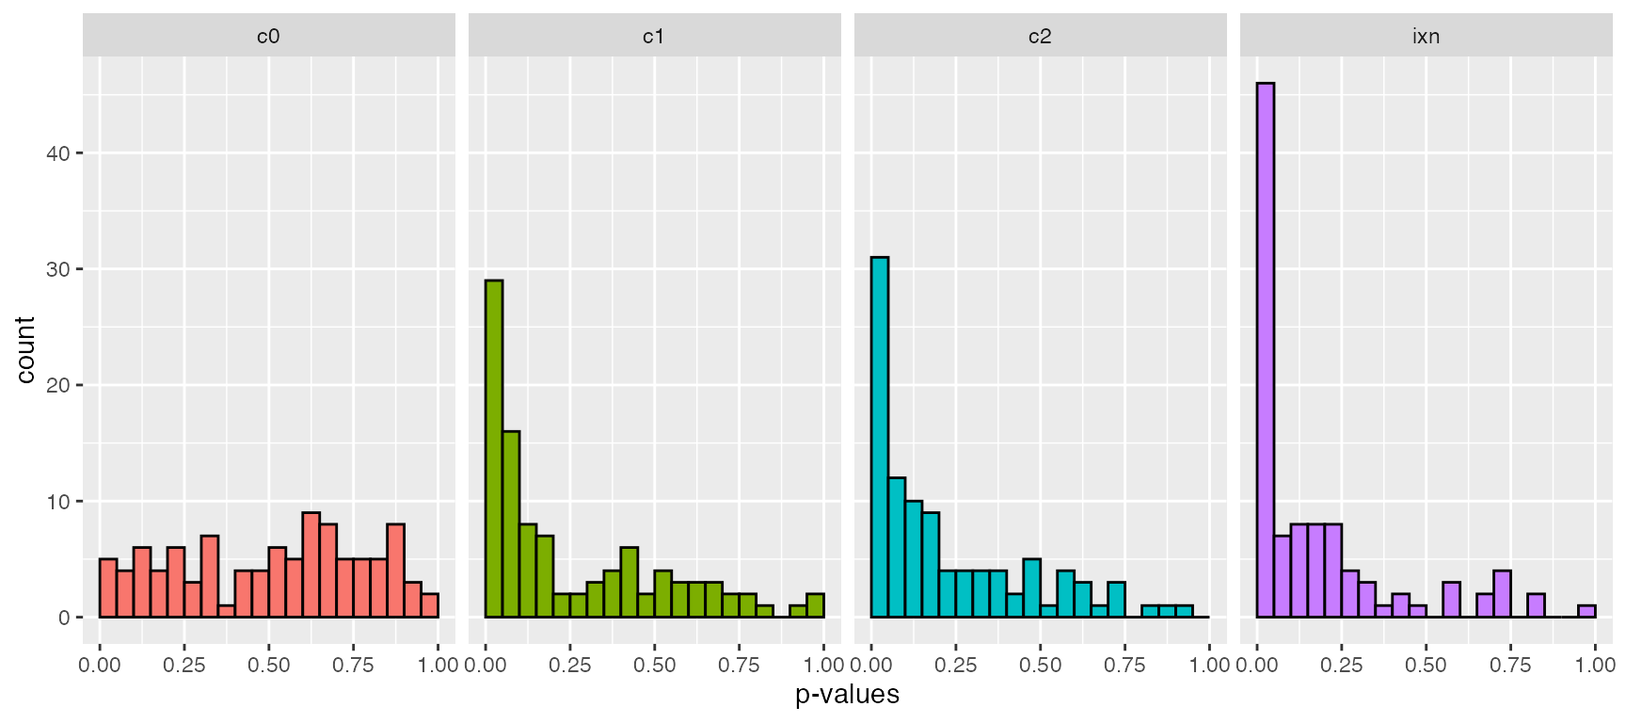
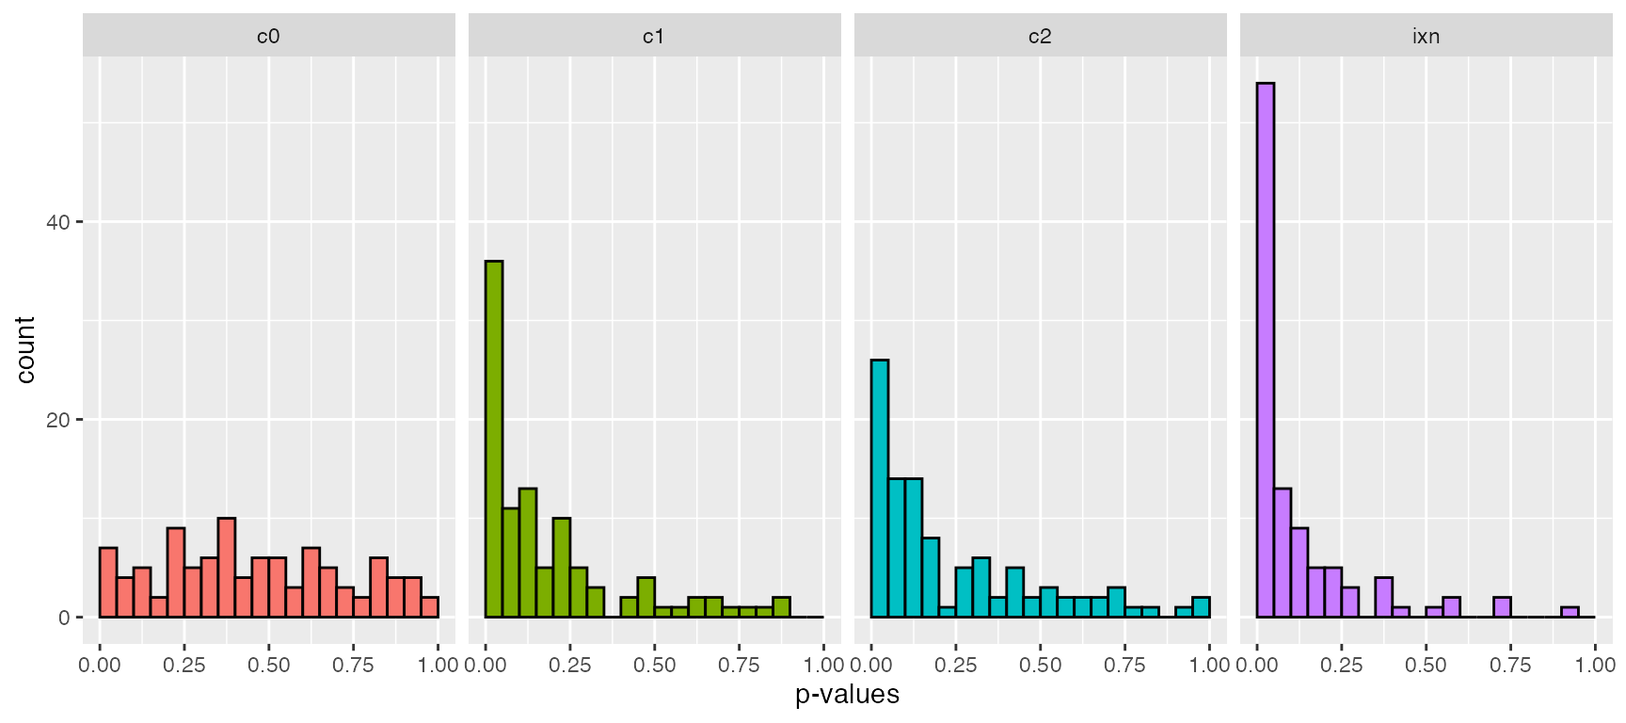
vignette clarifications

diff --git a/docs/articles/power.html b/docs/articles/power.html
@@ -144,15 +144,15 @@
                         data <span class="op">=</span> <span class="va">dat</span>,
                         return <span class="op">=</span> <span class="st">"afex_aov"</span><span class="op">)</span></pre></div>
 <pre><code>## Contrasts set to contr.sum for the following variables: C</code></pre>
-<p>{scienceverse} requires any numbers you use from an analysis to be returned as a named list, and we only care about the 3-way interaction for this study, so we’ll use {broom} and {dplyr} to get just the values we want.</p>
+<p>{scienceverse} requires any numbers you use from an analysis to be returned as a named list, and we only care about the 3-way interaction for this study, so we’ll use {dplyr} and {tidyr} to get just the values we want.</p>
 <div class="sourceCode" id="cb5"><pre class="downlit">
 <span class="co"># get stats for 3-way interaction</span>
 <span class="va">ixn</span> <span class="op">&lt;-</span> <span class="fu"><a href="https://rdrr.io/r/stats/anova.html">anova</a></span><span class="op">(</span><span class="va">omnibus</span><span class="op">)</span><span class="op">[</span><span class="st">"C:A:B"</span>, <span class="op">]</span>
 
 <span class="co"># calculate group means</span>
-<span class="va">means</span> <span class="op">&lt;-</span> <span class="fu"><a href="https://dplyr.tidyverse.org/reference/group_by.html">group_by</a></span><span class="op">(</span><span class="va">dat</span>, <span class="va">A</span>, <span class="va">B</span>, <span class="va">C</span><span class="op">)</span> <span class="op">%&gt;%</span>
-  <span class="fu"><a href="https://dplyr.tidyverse.org/reference/summarise.html">summarise</a></span><span class="op">(</span>m <span class="op">=</span> <span class="fu"><a href="https://rdrr.io/r/base/mean.html">mean</a></span><span class="op">(</span><span class="va">score</span><span class="op">)</span>, .groups <span class="op">=</span> <span class="st">"drop"</span><span class="op">)</span> <span class="op">%&gt;%</span>
-  <span class="fu"><a href="https://tidyr.tidyverse.org/reference/unite.html">unite</a></span><span class="op">(</span><span class="st">"grp"</span>, <span class="va">A</span>, <span class="va">B</span>, <span class="va">C</span><span class="op">)</span>
+<span class="va">means</span> <span class="op">&lt;-</span> <span class="fu">group_by</span><span class="op">(</span><span class="va">dat</span>, <span class="va">A</span>, <span class="va">B</span>, <span class="va">C</span><span class="op">)</span> <span class="op">%&gt;%</span>
+  <span class="fu">summarise</span><span class="op">(</span>m <span class="op">=</span> <span class="fu"><a href="https://rdrr.io/r/base/mean.html">mean</a></span><span class="op">(</span><span class="va">score</span><span class="op">)</span>, .groups <span class="op">=</span> <span class="st">"drop"</span><span class="op">)</span> <span class="op">%&gt;%</span>
+  <span class="fu">tidyr</span><span class="fu">::</span><span class="fu"><a href="https://tidyr.tidyverse.org/reference/unite.html">unite</a></span><span class="op">(</span><span class="st">"grp"</span>, <span class="va">A</span>, <span class="va">B</span>, <span class="va">C</span><span class="op">)</span>
 
 <span class="va">m</span> <span class="op">&lt;-</span> <span class="va">means</span><span class="op">$</span><span class="va">m</span>
 <span class="fu"><a href="https://rdrr.io/r/base/names.html">names</a></span><span class="op">(</span><span class="va">m</span><span class="op">)</span> <span class="op">&lt;-</span> <span class="va">means</span><span class="op">$</span><span class="va">grp</span>
@@ -163,28 +163,28 @@
   means <span class="op">=</span> <span class="va">m</span>
 <span class="op">)</span> <span class="op">%&gt;%</span> <span class="fu"><a href="https://rdrr.io/r/utils/str.html">str</a></span><span class="op">(</span><span class="op">)</span></pre></div>
 <pre><code>## List of 3
-##  $ p    : num 0.351
-##  $ F    : num 1.12
-##  $ means: Named num [1:24] 0.3397 0.5654 -0.0924 0.1731 0.6192 ...
+##  $ p    : num 0.175
+##  $ F    : num 1.53
+##  $ means: Named num [1:24] 0.0693 0.2482 0.2407 -0.0398 0.0253 ...
 ##   ..- attr(*, "names")= chr [1:24] "A1_B1_C0" "A1_B1_C1" "A1_B1_C2" "A1_B2_C0" ...</code></pre>
 <p>Now you might also want to do some analyses to check that the pattern of any significant 3-way interaction is consistent with your hypothesis.</p>
 <div class="sourceCode" id="cb7"><pre class="downlit">
 <span class="va">aov_control</span> <span class="op">&lt;-</span> <span class="fu">afex</span><span class="fu">::</span><span class="fu"><a href="https://rdrr.io/pkg/afex/man/aov_car.html">aov_ez</a></span><span class="op">(</span>id <span class="op">=</span> <span class="st">"sub_id"</span>,
                         dv <span class="op">=</span> <span class="st">"score"</span>,
                         within <span class="op">=</span> <span class="fu"><a href="https://rdrr.io/r/base/c.html">c</a></span><span class="op">(</span><span class="st">"A"</span>, <span class="st">"B"</span><span class="op">)</span>,
-                        data <span class="op">=</span> <span class="fu"><a href="https://dplyr.tidyverse.org/reference/filter.html">filter</a></span><span class="op">(</span><span class="va">dat</span>, <span class="va">C</span> <span class="op">==</span> <span class="st">"C0"</span><span class="op">)</span>,
+                        data <span class="op">=</span> <span class="fu"><a href="https://rdrr.io/r/stats/filter.html">filter</a></span><span class="op">(</span><span class="va">dat</span>, <span class="va">C</span> <span class="op">==</span> <span class="st">"C0"</span><span class="op">)</span>,
                         return <span class="op">=</span> <span class="st">"afex_aov"</span><span class="op">)</span>
 
 <span class="va">aov_c1</span> <span class="op">&lt;-</span> <span class="fu">afex</span><span class="fu">::</span><span class="fu"><a href="https://rdrr.io/pkg/afex/man/aov_car.html">aov_ez</a></span><span class="op">(</span>id <span class="op">=</span> <span class="st">"sub_id"</span>,
                         dv <span class="op">=</span> <span class="st">"score"</span>,
                         within <span class="op">=</span> <span class="fu"><a href="https://rdrr.io/r/base/c.html">c</a></span><span class="op">(</span><span class="st">"A"</span>, <span class="st">"B"</span><span class="op">)</span>,
-                        data <span class="op">=</span> <span class="fu"><a href="https://dplyr.tidyverse.org/reference/filter.html">filter</a></span><span class="op">(</span><span class="va">dat</span>, <span class="va">C</span> <span class="op">==</span> <span class="st">"C1"</span><span class="op">)</span>,
+                        data <span class="op">=</span> <span class="fu"><a href="https://rdrr.io/r/stats/filter.html">filter</a></span><span class="op">(</span><span class="va">dat</span>, <span class="va">C</span> <span class="op">==</span> <span class="st">"C1"</span><span class="op">)</span>,
                         return <span class="op">=</span> <span class="st">"afex_aov"</span><span class="op">)</span>
 
 <span class="va">aov_c2</span> <span class="op">&lt;-</span> <span class="fu">afex</span><span class="fu">::</span><span class="fu"><a href="https://rdrr.io/pkg/afex/man/aov_car.html">aov_ez</a></span><span class="op">(</span>id <span class="op">=</span> <span class="st">"sub_id"</span>,
                         dv <span class="op">=</span> <span class="st">"score"</span>,
                         within <span class="op">=</span> <span class="fu"><a href="https://rdrr.io/r/base/c.html">c</a></span><span class="op">(</span><span class="st">"A"</span>, <span class="st">"B"</span><span class="op">)</span>,
-                        data <span class="op">=</span> <span class="fu"><a href="https://dplyr.tidyverse.org/reference/filter.html">filter</a></span><span class="op">(</span><span class="va">dat</span>, <span class="va">C</span> <span class="op">==</span> <span class="st">"C2"</span><span class="op">)</span>,
+                        data <span class="op">=</span> <span class="fu"><a href="https://rdrr.io/r/stats/filter.html">filter</a></span><span class="op">(</span><span class="va">dat</span>, <span class="va">C</span> <span class="op">==</span> <span class="st">"C2"</span><span class="op">)</span>,
                         return <span class="op">=</span> <span class="st">"afex_aov"</span><span class="op">)</span>
 
 <span class="fu"><a href="https://rdrr.io/r/base/list.html">list</a></span><span class="op">(</span>
@@ -193,9 +193,9 @@
   cond2 <span class="op">=</span> <span class="fu"><a href="https://rdrr.io/r/stats/anova.html">anova</a></span><span class="op">(</span><span class="va">aov_c2</span><span class="op">)</span><span class="op">[</span><span class="st">"A:B"</span>, <span class="st">"Pr(&gt;F)"</span><span class="op">]</span>
 <span class="op">)</span> <span class="op">%&gt;%</span> <span class="fu"><a href="https://rdrr.io/r/utils/str.html">str</a></span><span class="op">(</span><span class="op">)</span></pre></div>
 <pre><code>## List of 3
-##  $ control: num 0.878
-##  $ cond1  : num 0.0836
-##  $ cond2  : num 0.977</code></pre>
+##  $ control: num 0.859
+##  $ cond1  : num 0.263
+##  $ cond2  : num 0.223</code></pre>
 </div>
 <div id="set-up-scienceverse-study" class="section level2">
 <h2 class="hasAnchor">
@@ -251,33 +251,33 @@
 <div class="sourceCode" id="cb10"><pre class="downlit">
 <span class="fu"><a href="../reference/study_analyse.html">study_analyse</a></span><span class="op">(</span><span class="va">s</span><span class="op">)</span> <span class="op">%&gt;%</span> <span class="fu"><a href="../reference/get_result.html">get_result</a></span><span class="op">(</span><span class="op">)</span></pre></div>
 <pre><code>## Contrasts set to contr.sum for the following variables: C</code></pre>
-<pre><code>## * p: 0.1393093
-## * F: 1.6474692
+<pre><code>## * p: 0.0799278
+## * F: 1.9424453
 ## * means: 
-##     * A1_B1_C0: 0.0649719
-##     * A1_B1_C1: 0.2215913
-##     * A1_B1_C2: 0.0500495
-##     * A1_B2_C0: -0.0063149
-##     * A1_B2_C1: 0.3299104
-##     * A1_B2_C2: -0.2422676
-##     * A2_B1_C0: -0.0694003
-##     * A2_B1_C1: 0.2746144
-##     * A2_B1_C2: -0.1725015
-##     * A2_B2_C0: -0.1733002
-##     * A2_B2_C1: 0.0783498
-##     * A2_B2_C2: -0.2186378
-##     * A3_B1_C0: -0.026929
-##     * A3_B1_C1: 0.5473249
-##     * A3_B1_C2: 0.1582065
-##     * A3_B2_C0: -0.2743202
-##     * A3_B2_C1: 0.0815687
-##     * A3_B2_C2: 0.4101281
-##     * A4_B1_C0: -0.1449238
-##     * A4_B1_C1: 0.4450946
-##     * A4_B1_C2: -0.1292933
-##     * A4_B2_C0: 0.0637482
-##     * A4_B2_C1: 0.31732
-##     * A4_B2_C2: 0.6933566</code></pre>
+##     * A1_B1_C0: -0.1513062
+##     * A1_B1_C1: 0.5302605
+##     * A1_B1_C2: 0.2147065
+##     * A1_B2_C0: -0.1150104
+##     * A1_B2_C1: 0.2394406
+##     * A1_B2_C2: -0.1316707
+##     * A2_B1_C0: -0.0752131
+##     * A2_B1_C1: 0.5149828
+##     * A2_B1_C2: -0.0294286
+##     * A2_B2_C0: -0.2582569
+##     * A2_B2_C1: 0.1935122
+##     * A2_B2_C2: 0.3162614
+##     * A3_B1_C0: 0.2860275
+##     * A3_B1_C1: 0.4743795
+##     * A3_B1_C2: -0.0102132
+##     * A3_B2_C0: -0.0348743
+##     * A3_B2_C1: 0.27751
+##     * A3_B2_C2: 0.4565901
+##     * A4_B1_C0: 0.0889195
+##     * A4_B1_C1: 0.7312793
+##     * A4_B1_C2: -0.001072
+##     * A4_B2_C0: -0.0123132
+##     * A4_B2_C1: 0.2371247
+##     * A4_B2_C2: 0.6997963</code></pre>
 <p>Add the extra analyses. They can go in the code of the main analysis and their results can be added to the returned list, or they can be added as separate analysis objects.</p>
 <div class="sourceCode" id="cb13"><pre class="downlit">
 <span class="va">s</span> <span class="op">&lt;-</span> <span class="va">s</span> <span class="op">%&gt;%</span>
@@ -340,18 +340,17 @@
 <pre><code>## Contrasts set to contr.sum for the following variables: C</code></pre>
 <div class="sourceCode" id="cb16"><pre class="downlit">
 <span class="fu"><a href="../reference/get_result.html">get_result</a></span><span class="op">(</span><span class="va">s</span>, analysis_id <span class="op">=</span> <span class="st">"C0"</span><span class="op">)</span></pre></div>
-<pre><code>## * p: 0.5718463
-## * F: 0.6465138</code></pre>
+<pre><code>## * p: 0.5811598
+## * F: 0.5923327</code></pre>
 <div class="sourceCode" id="cb18"><pre class="downlit">
 <span class="fu"><a href="../reference/get_result.html">get_result</a></span><span class="op">(</span><span class="va">s</span>, analysis_id <span class="op">=</span> <span class="st">"C1"</span><span class="op">)</span></pre></div>
-<pre><code>## * p: 0.4310396
-## * F: 0.9096883</code></pre>
+<pre><code>## * p: 0.8629406
+## * F: 0.2308999</code></pre>
 <div class="sourceCode" id="cb20"><pre class="downlit">
 <span class="fu"><a href="../reference/get_result.html">get_result</a></span><span class="op">(</span><span class="va">s</span>, analysis_id <span class="op">=</span> <span class="st">"C2"</span><span class="op">)</span></pre></div>
-<pre><code>## * p: 0.0108717
-## * F: 4.2554061</code></pre>
-<p>Add a hypothesis, specify criteria (here, just <code>p</code> &lt; 0.05), and add evaluation criteria. You can add criteria for both “corroboration” and “falsification”, but here we just have corroboration criteria.</p>
-<p>(Ignore the statistically dodgy criterion of p &gt; 0.05 for the control condition. In practice, you’d do an equivalence test to show that the control condition has an effect smaller than the SESOI.)</p>
+<pre><code>## * p: 0.0288904
+## * F: 3.5212271</code></pre>
+<p>Add a hypothesis, specify criteria, and add evaluation rules You can add rules for both “corroboration” and “falsification”, but here we just have corroboration rules.</p>
 <div class="sourceCode" id="cb22"><pre class="downlit">
 <span class="va">s</span> <span class="op">&lt;-</span> <span class="va">s</span> <span class="op">%&gt;%</span>
   <span class="fu"><a href="../reference/add_hypothesis.html">add_hypothesis</a></span><span class="op">(</span><span class="st">"IXN"</span>, <span class="st">"There will be a significant 3-way interaction among factors A, B and C"</span><span class="op">)</span> <span class="op">%&gt;%</span>
@@ -409,7 +408,7 @@
 <div id="run-power-simulation" class="section level2">
 <h2 class="hasAnchor">
 <a href="#run-power-simulation" class="anchor"></a>Run power simulation</h2>
-<p>Running <code><a href="../reference/study_power.html">study_power()</a></code> returns a study object that has <code>rep</code> values stored for the analysis criteria and evaluations. <code><a href="../reference/get_power.html">get_power()</a></code> returns the evaluation criteria for each hypothesis and, optionally, the criteria values.</p>
+<p>Running <code><a href="../reference/study_power.html">study_power()</a></code> returns a study object that has <code>rep</code> values stored for the analysis criteria and evaluations. <code><a href="../reference/get_power.html">get_power()</a></code> returns the evaluation for each hypothesis and, optionally, the results values for each analysis.</p>
 <div class="sourceCode" id="cb23"><pre class="downlit">
 <span class="va">s</span> <span class="op">&lt;-</span> <span class="fu"><a href="../reference/study_power.html">study_power</a></span><span class="op">(</span><span class="va">s</span>, rep <span class="op">=</span> <span class="fl">100</span><span class="op">)</span></pre></div>
 <pre><code>## Warning in study_power(s, rep = 100): Hypothesis IXN has no evaluation criteria
@@ -420,10 +419,13 @@
 <span class="fu"><a href="https://rdrr.io/r/utils/str.html">str</a></span><span class="op">(</span><span class="va">power</span><span class="op">$</span><span class="va">power</span><span class="op">)</span></pre></div>
 <pre><code>## List of 1
 ##  $ IXN:List of 3
-##   ..$ corroboration: num 0.46
+##   ..$ corroboration: num 0.54
 ##   ..$ falsification: num 0
-##   ..$ inconclusive : num 0.54</code></pre>
-<p>Plot the resulting values.</p>
+##   ..$ inconclusive : num 0.46</code></pre>
+</div>
+<div id="plot-the-resulting-values" class="section level2">
+<h2 class="hasAnchor">
+<a href="#plot-the-resulting-values" class="anchor"></a>Plot the resulting values</h2>
 <div class="sourceCode" id="cb28"><pre class="downlit">
 <span class="fu"><a href="https://rdrr.io/r/base/data.frame.html">data.frame</a></span><span class="op">(</span>
   ixn <span class="op">=</span> <span class="va">power</span><span class="op">$</span><span class="va">results</span><span class="op">$</span><span class="va">ANOVA</span><span class="op">$</span><span class="va">p</span>,
@@ -431,43 +433,43 @@
   c1 <span class="op">=</span> <span class="va">power</span><span class="op">$</span><span class="va">results</span><span class="op">$</span><span class="va">C1</span><span class="op">$</span><span class="va">p</span>,
   c2 <span class="op">=</span> <span class="va">power</span><span class="op">$</span><span class="va">results</span><span class="op">$</span><span class="va">C2</span><span class="op">$</span><span class="va">p</span>
 <span class="op">)</span> <span class="op">%&gt;%</span>
-  <span class="fu"><a href="https://tidyr.tidyverse.org/reference/gather.html">gather</a></span><span class="op">(</span><span class="st">"analysis"</span>, <span class="st">"p"</span>, <span class="va">ixn</span><span class="op">:</span><span class="va">c2</span><span class="op">)</span> <span class="op">%&gt;%</span>
-  <span class="fu"><a href="https://ggplot2.tidyverse.org/reference/ggplot.html">ggplot</a></span><span class="op">(</span><span class="fu"><a href="https://ggplot2.tidyverse.org/reference/aes.html">aes</a></span><span class="op">(</span>x <span class="op">=</span> <span class="va">p</span>, fill <span class="op">=</span> <span class="va">analysis</span><span class="op">)</span><span class="op">)</span> <span class="op">+</span> 
-  <span class="fu"><a href="https://ggplot2.tidyverse.org/reference/geom_histogram.html">geom_histogram</a></span><span class="op">(</span>binwidth <span class="op">=</span> <span class="fl">0.05</span>, color <span class="op">=</span> <span class="st">"black"</span>, 
+  <span class="fu">gather</span><span class="op">(</span><span class="st">"analysis"</span>, <span class="st">"p"</span>, <span class="va">ixn</span><span class="op">:</span><span class="va">c2</span><span class="op">)</span> <span class="op">%&gt;%</span>
+  <span class="fu">ggplot</span><span class="op">(</span><span class="fu">aes</span><span class="op">(</span>x <span class="op">=</span> <span class="va">p</span>, fill <span class="op">=</span> <span class="va">analysis</span><span class="op">)</span><span class="op">)</span> <span class="op">+</span> 
+  <span class="fu">geom_histogram</span><span class="op">(</span>binwidth <span class="op">=</span> <span class="fl">0.05</span>, color <span class="op">=</span> <span class="st">"black"</span>, 
                  boundary <span class="op">=</span> <span class="fl">0</span>, show.legend <span class="op">=</span> <span class="cn">FALSE</span><span class="op">)</span> <span class="op">+</span>
-  <span class="fu"><a href="https://ggplot2.tidyverse.org/reference/facet_grid.html">facet_grid</a></span><span class="op">(</span><span class="op">~</span><span class="va">analysis</span><span class="op">)</span> <span class="op">+</span>
-  <span class="fu"><a href="https://ggplot2.tidyverse.org/reference/labs.html">xlab</a></span><span class="op">(</span><span class="st">"p-values"</span><span class="op">)</span></pre></div>
+  <span class="fu">facet_grid</span><span class="op">(</span><span class="op">~</span><span class="va">analysis</span><span class="op">)</span> <span class="op">+</span>
+  <span class="fu">xlab</span><span class="op">(</span><span class="st">"p-values"</span><span class="op">)</span></pre></div>
 <p><img src="power_files/figure-html/unnamed-chunk-13-1.png" width="100%"></p>
 <div class="sourceCode" id="cb29"><pre class="downlit">
 <span class="fu"><a href="https://rdrr.io/r/base/t.html">t</a></span><span class="op">(</span><span class="va">power</span><span class="op">$</span><span class="va">results</span><span class="op">$</span><span class="va">ANOVA</span><span class="op">$</span><span class="va">means</span><span class="op">)</span> <span class="op">%&gt;%</span>
   <span class="fu"><a href="https://rdrr.io/r/base/as.data.frame.html">as.data.frame</a></span><span class="op">(</span><span class="op">)</span> <span class="op">%&gt;%</span>
-  <span class="fu"><a href="https://tidyr.tidyverse.org/reference/pivot_longer.html">pivot_longer</a></span><span class="op">(</span>
+  <span class="fu">pivot_longer</span><span class="op">(</span>
     cols <span class="op">=</span> <span class="va">A1_B1_C0</span><span class="op">:</span><span class="va">A4_B2_C2</span>,
     names_to <span class="op">=</span> <span class="fu"><a href="https://rdrr.io/r/base/c.html">c</a></span><span class="op">(</span><span class="st">"A"</span>, <span class="st">"B"</span>, <span class="st">"C"</span><span class="op">)</span>,
     names_sep <span class="op">=</span> <span class="st">"_"</span>,
     values_to <span class="op">=</span> <span class="st">"mean"</span>
   <span class="op">)</span> <span class="op">%&gt;%</span>
-  <span class="fu"><a href="https://ggplot2.tidyverse.org/reference/ggplot.html">ggplot</a></span><span class="op">(</span><span class="fu"><a href="https://ggplot2.tidyverse.org/reference/aes.html">aes</a></span><span class="op">(</span>x <span class="op">=</span> <span class="va">A</span>, y <span class="op">=</span> <span class="va">mean</span>, colour <span class="op">=</span> <span class="va">B</span><span class="op">)</span><span class="op">)</span> <span class="op">+</span> 
-  <span class="fu"><a href="https://ggplot2.tidyverse.org/reference/geom_violin.html">geom_violin</a></span><span class="op">(</span>alpha <span class="op">=</span> <span class="fl">0.5</span>, position <span class="op">=</span> <span class="fu"><a href="https://ggplot2.tidyverse.org/reference/position_dodge.html">position_dodge</a></span><span class="op">(</span>width <span class="op">=</span> <span class="fl">0</span><span class="op">)</span><span class="op">)</span> <span class="op">+</span>
-  <span class="fu"><a href="https://ggplot2.tidyverse.org/reference/facet_grid.html">facet_grid</a></span><span class="op">(</span><span class="va">C</span><span class="op">~</span><span class="va">.</span><span class="op">)</span></pre></div>
+  <span class="fu">ggplot</span><span class="op">(</span><span class="fu">aes</span><span class="op">(</span>x <span class="op">=</span> <span class="va">A</span>, y <span class="op">=</span> <span class="va">mean</span>, colour <span class="op">=</span> <span class="va">B</span><span class="op">)</span><span class="op">)</span> <span class="op">+</span> 
+  <span class="fu">geom_violin</span><span class="op">(</span>alpha <span class="op">=</span> <span class="fl">0.5</span>, position <span class="op">=</span> <span class="fu">position_dodge</span><span class="op">(</span>width <span class="op">=</span> <span class="fl">0</span><span class="op">)</span><span class="op">)</span> <span class="op">+</span>
+  <span class="fu">facet_grid</span><span class="op">(</span><span class="va">C</span><span class="op">~</span><span class="va">.</span><span class="op">)</span></pre></div>
 <p><img src="power_files/figure-html/unnamed-chunk-14-1.png" width="100%"></p>
 <div class="sourceCode" id="cb30"><pre class="downlit">
 <span class="fu"><a href="https://rdrr.io/r/base/t.html">t</a></span><span class="op">(</span><span class="va">power</span><span class="op">$</span><span class="va">results</span><span class="op">$</span><span class="va">ANOVA</span><span class="op">$</span><span class="va">means</span><span class="op">)</span> <span class="op">%&gt;%</span>
   <span class="fu"><a href="https://rdrr.io/r/base/as.data.frame.html">as.data.frame</a></span><span class="op">(</span><span class="op">)</span> <span class="op">%&gt;%</span>
   <span class="fu"><a href="https://dplyr.tidyverse.org/reference/mutate.html">mutate</a></span><span class="op">(</span>rep <span class="op">=</span> <span class="fu"><a href="https://dplyr.tidyverse.org/reference/ranking.html">row_number</a></span><span class="op">(</span><span class="op">)</span><span class="op">)</span> <span class="op">%&gt;%</span>
-  <span class="fu"><a href="https://tidyr.tidyverse.org/reference/pivot_longer.html">pivot_longer</a></span><span class="op">(</span>
+  <span class="fu">pivot_longer</span><span class="op">(</span>
     cols <span class="op">=</span> <span class="va">A1_B1_C0</span><span class="op">:</span><span class="va">A4_B2_C2</span>,
     names_to <span class="op">=</span> <span class="fu"><a href="https://rdrr.io/r/base/c.html">c</a></span><span class="op">(</span><span class="st">"A"</span>, <span class="st">"B"</span>, <span class="st">"C"</span><span class="op">)</span>,
     names_sep <span class="op">=</span> <span class="st">"_"</span>,
     values_to <span class="op">=</span> <span class="st">"mean"</span>
   <span class="op">)</span> <span class="op">%&gt;%</span>
-  <span class="fu"><a href="https://tidyr.tidyverse.org/reference/pivot_wider.html">pivot_wider</a></span><span class="op">(</span>
+  <span class="fu">pivot_wider</span><span class="op">(</span>
     names_from <span class="op">=</span> <span class="va">B</span>,
     values_from <span class="op">=</span> <span class="va">`mean`</span>
   <span class="op">)</span> <span class="op">%&gt;%</span>
   <span class="fu"><a href="https://dplyr.tidyverse.org/reference/mutate.html">mutate</a></span><span class="op">(</span>B_diff <span class="op">=</span> <span class="va">B2</span> <span class="op">-</span> <span class="va">B1</span><span class="op">)</span> <span class="op">%&gt;%</span>
-  <span class="fu"><a href="https://ggplot2.tidyverse.org/reference/ggplot.html">ggplot</a></span><span class="op">(</span><span class="fu"><a href="https://ggplot2.tidyverse.org/reference/aes.html">aes</a></span><span class="op">(</span>x <span class="op">=</span> <span class="va">A</span>, y <span class="op">=</span> <span class="va">B_diff</span>, colour <span class="op">=</span> <span class="va">C</span><span class="op">)</span><span class="op">)</span> <span class="op">+</span> 
-  <span class="fu"><a href="https://ggplot2.tidyverse.org/reference/geom_violin.html">geom_violin</a></span><span class="op">(</span>alpha <span class="op">=</span> <span class="fl">0</span>, position <span class="op">=</span> <span class="fu"><a href="https://ggplot2.tidyverse.org/reference/position_dodge.html">position_dodge</a></span><span class="op">(</span>width <span class="op">=</span> <span class="fl">0</span><span class="op">)</span><span class="op">)</span></pre></div>
+  <span class="fu">ggplot</span><span class="op">(</span><span class="fu">aes</span><span class="op">(</span>x <span class="op">=</span> <span class="va">A</span>, y <span class="op">=</span> <span class="va">B_diff</span>, colour <span class="op">=</span> <span class="va">C</span><span class="op">)</span><span class="op">)</span> <span class="op">+</span> 
+  <span class="fu">geom_violin</span><span class="op">(</span>alpha <span class="op">=</span> <span class="fl">0</span>, position <span class="op">=</span> <span class="fu">position_dodge</span><span class="op">(</span>width <span class="op">=</span> <span class="fl">0</span><span class="op">)</span><span class="op">)</span></pre></div>
 <p><img src="power_files/figure-html/unnamed-chunk-15-1.png" width="100%"></p>
 </div>
   </div>
